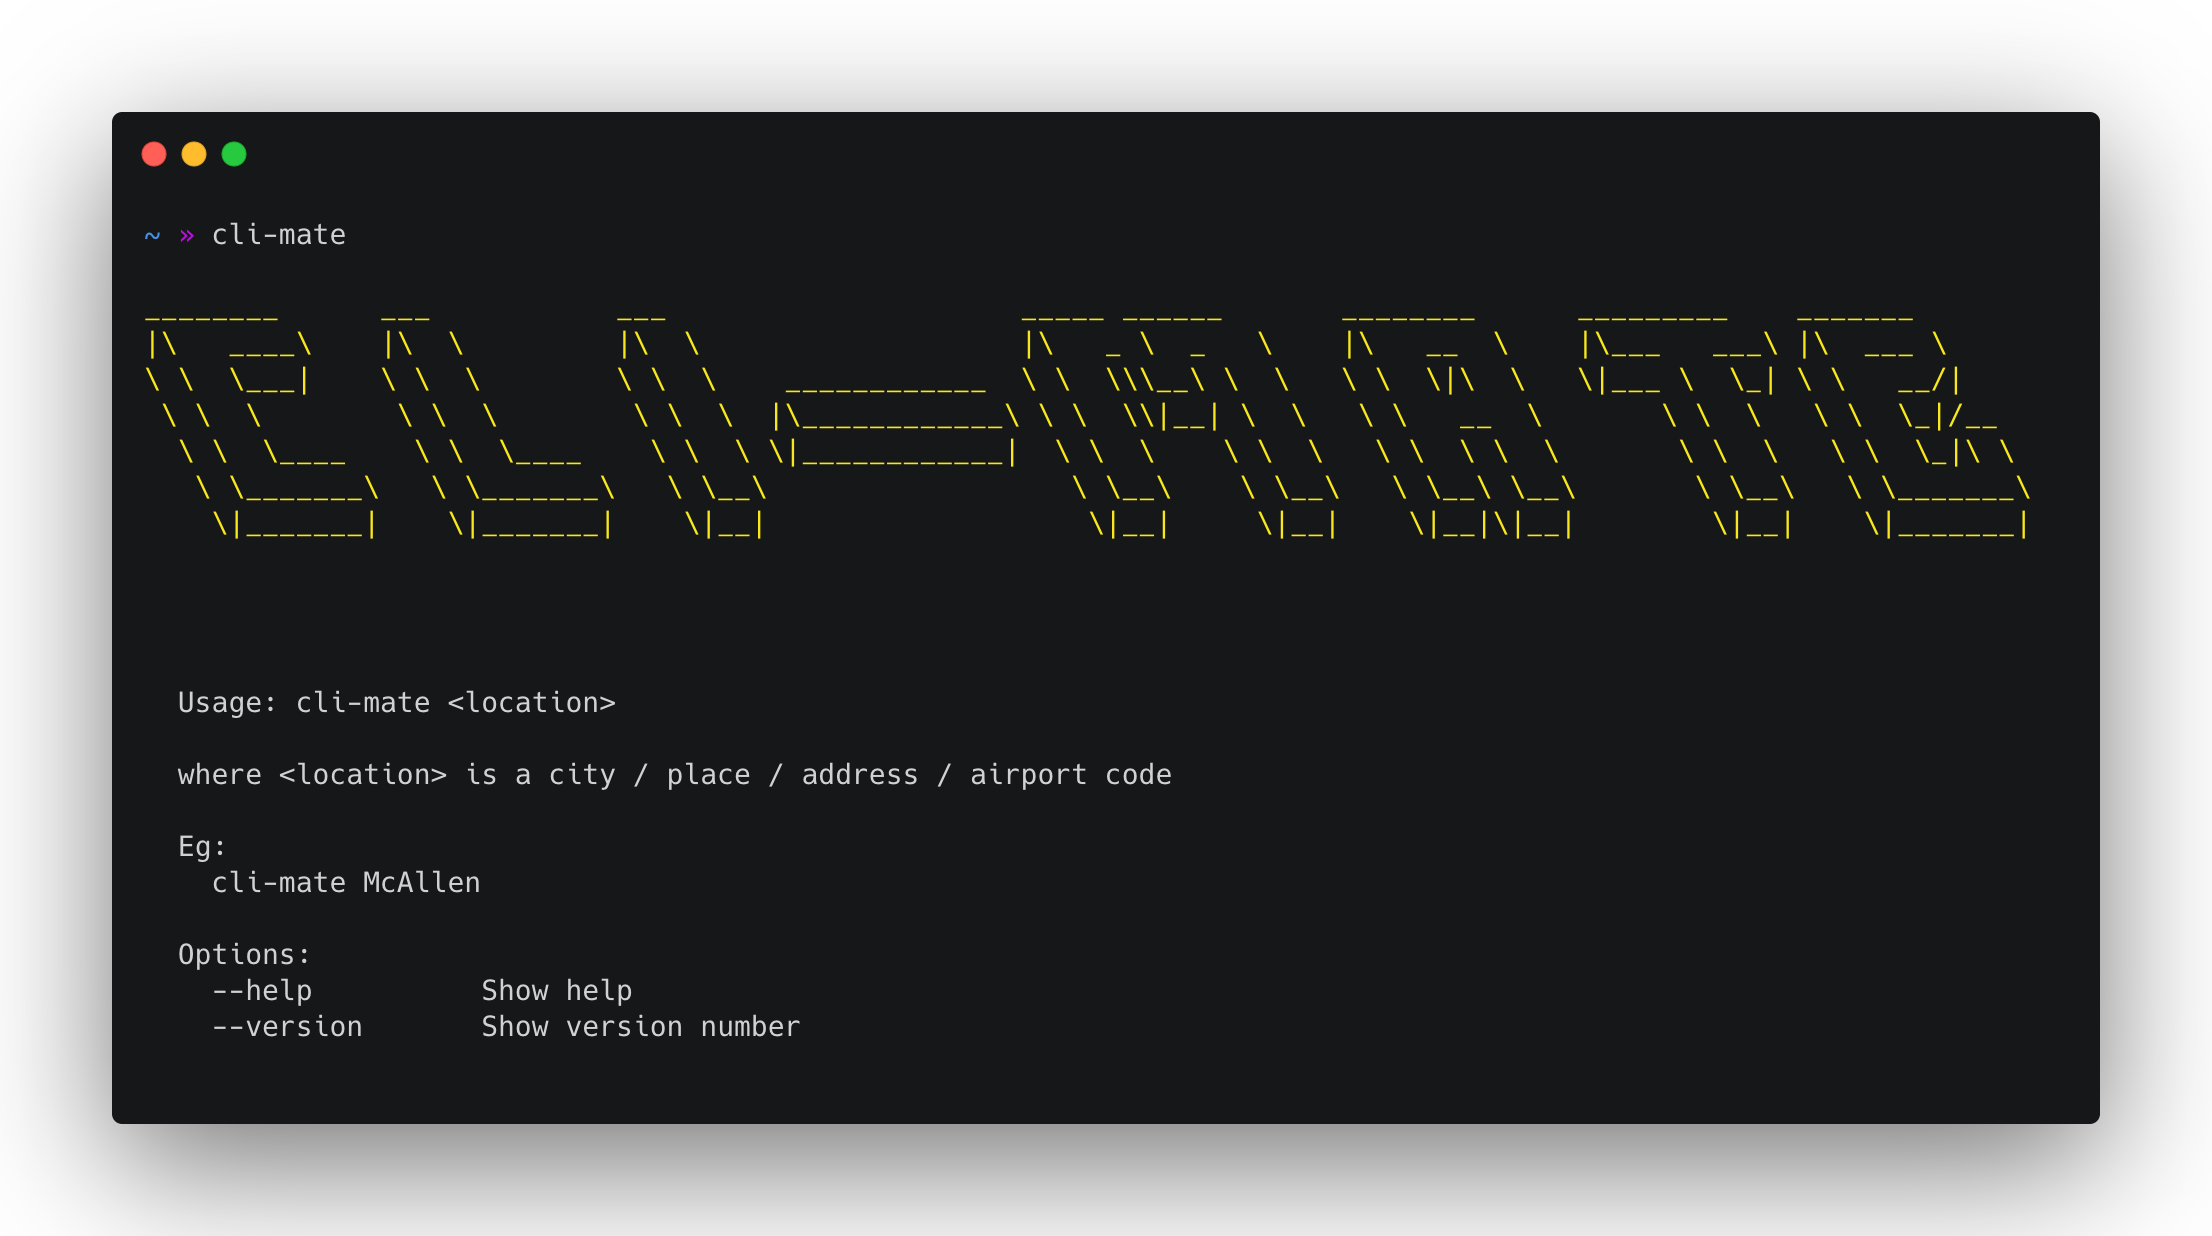
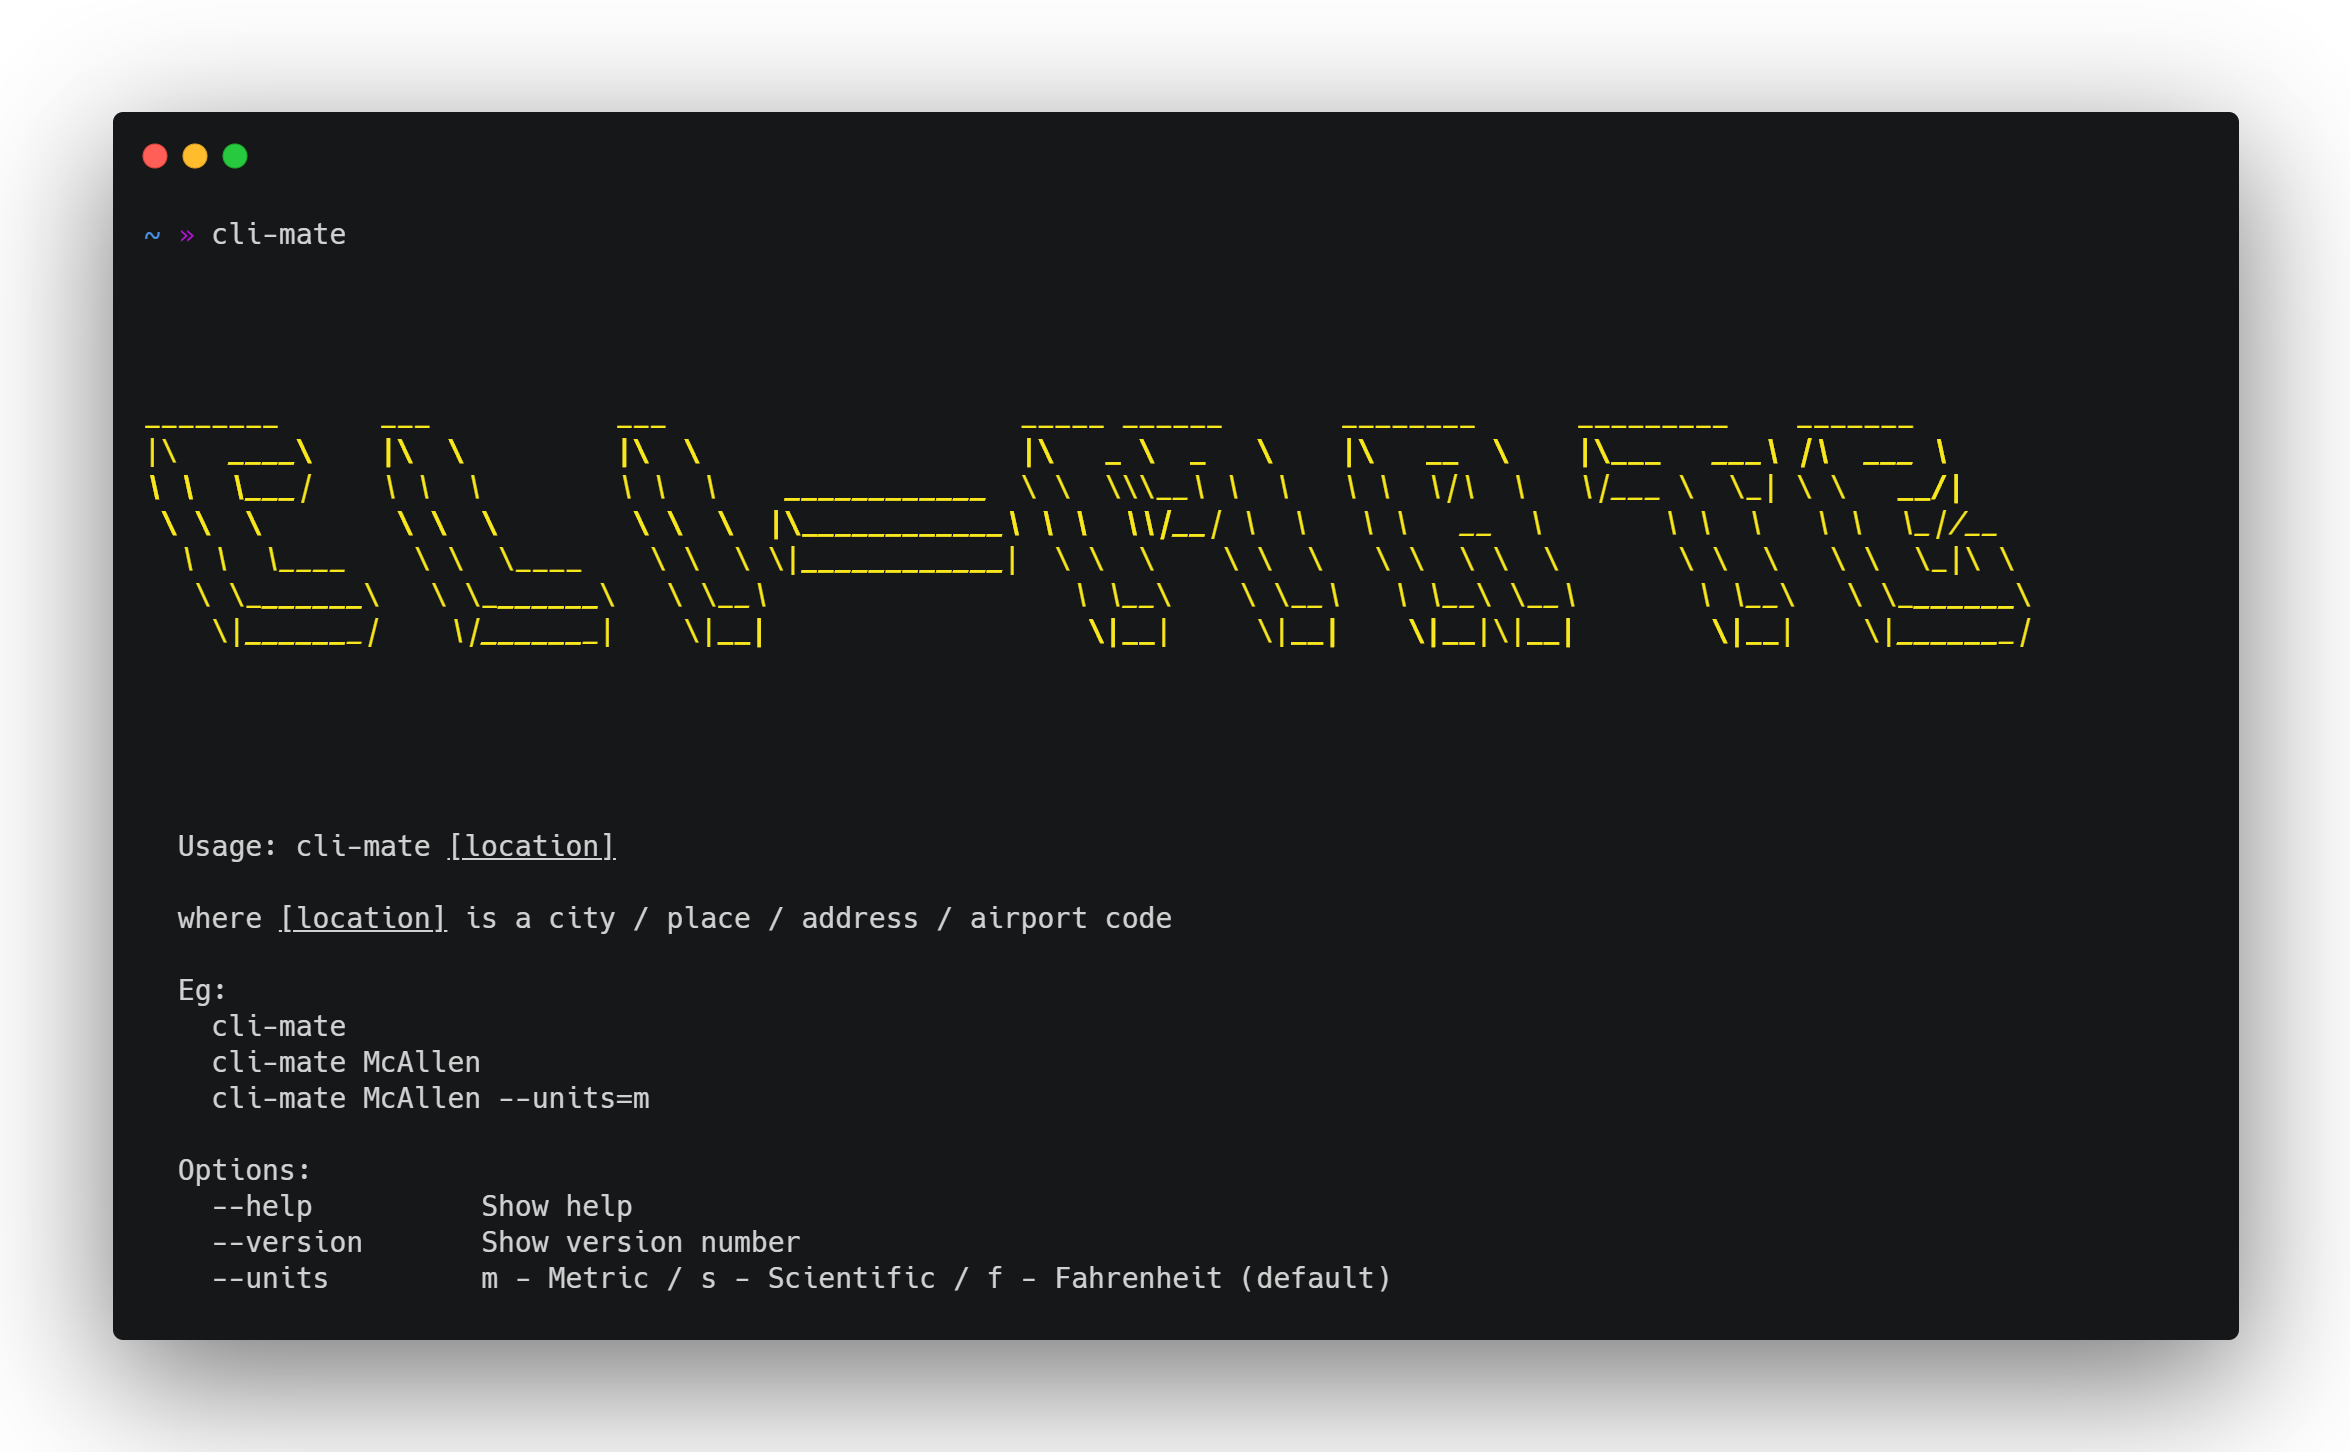
additional data from weathestack

diff --git a/app.js b/app.js
@@ -13,8 +13,8 @@ const args = process.argv;
 let units;
 let location;
 
-(function(){
-  if(!process.env.WEATHERSTACK || !process.env.MAPBOX){
+(function () {
+  if (!process.env.WEATHERSTACK || !process.env.MAPBOX) {
     spinner.fail("Failed to get API keys");
     return;
   }
@@ -39,49 +39,49 @@ let location;
     }
   }
 
-if (!location) {
-  autolocate((err, { latitude, longitude, location } = {}) => {
-    if (err) {
-      return spinner.fail(err);
-    }
-    forecast(
-      latitude,
-      longitude,
-      units,
-      (err, { description, temp, feelsLike, tempScale } = {}) => {
-        if (err) {
-          return spinner.fail(err);
-        }
-        spinner.succeed(chalk.underline(location));
-        console.log(
-          chalk.cyanBright(
-            `${description}. It is currently ${temp}${tempScale}, it feels like ${feelsLike}${tempScale}.`
-          )
-        );
+  if (!location) {
+    autolocate((err, { latitude, longitude, location } = {}) => {
+      if (err) {
+        return spinner.fail(err);
       }
-    );
-  });
-} else {
-  geocode(location, (err, { latitude, longitude, location } = {}) => {
-    if (err) {
-      return spinner.fail(err);
-    }
-    forecast(
-      latitude,
-      longitude,
-      units,
-      (err, { description, temp, feelsLike, tempScale, windSpeed, windDir, windScale, precipitation, precipitationUnits, humidity, cloudCover } = {}) => {
-        if (err) {
-          return spinner.fail(err);
+      forecast(
+        latitude,
+        longitude,
+        units,
+        (err, { description, temp, feelsLike, tempScale, windSpeed, windDir, windScale, precipitation, precipitationUnits, humidity, cloudCover } = {}) => {
+          if (err) {
+            return spinner.fail(err);
+          }
+          spinner.succeed(chalk.underline(location));
+          console.log(
+            chalk.cyanBright(
+              `${description}. It is currently ${temp}${tempScale}, it feels like ${feelsLike}${tempScale}.\nWind speed of ${windSpeed} ${windScale} with direction ${windDir}. \nHumidity of ${humidity}% with a Cloud Coverage of ${cloudCover}%.\n${precipitation} ${precipitationUnits} of precipitation.`
+            )
+          );
         }
-        spinner.succeed(chalk.underline(location));
-        console.log(
-          chalk.cyanBright(
-            `${description}. It is currently ${temp}${tempScale}, it feels like ${feelsLike}${tempScale}.`
-          )
-        );
+      );
+    });
+  } else {
+    geocode(location, (err, { latitude, longitude, location } = {}) => {
+      if (err) {
+        return spinner.fail(err);
       }
-    );
-  });
-}
+      forecast(
+        latitude,
+        longitude,
+        units,
+        (err, { description, temp, feelsLike, tempScale, windSpeed, windDir, windScale, precipitation, precipitationUnits, humidity, cloudCover } = {}) => {
+          if (err) {
+            return spinner.fail(err);
+          }
+          spinner.succeed(chalk.underline(location));
+          console.log(
+            chalk.cyanBright(
+              `${description}. It is currently ${temp}${tempScale}, it feels like ${feelsLike}${tempScale}.\nWind speed of ${windSpeed} ${windScale} with direction ${windDir}. \nHumidity of ${humidity}% with a Cloud Coverage of ${cloudCover}%.\n${precipitation} ${precipitationUnits} of precipitation.`
+            )
+          );
+        }
+      );
+    });
+  }
 })();

diff --git a/utils/menu.js b/utils/menu.js
@@ -20,7 +20,9 @@ const options = `
   where [location] is a city / place / address / airport code
 
   Eg:
+    cli-mate
     cli-mate McAllen
+    cli-mate McAllen --units=m
 
   Options:
     --help          Show help 

diff --git a/README.md b/README.md
@@ -2,7 +2,7 @@
 
 # CLI-mate :sunrise:
 
-`Node.js` CLI app that gives you the weather forecast for a given city :sunny:
+Command Line application that gives you the weather info for a given `city/place/address/airport code` :sunny:
 
 ![usage](img/usage.png)
 
